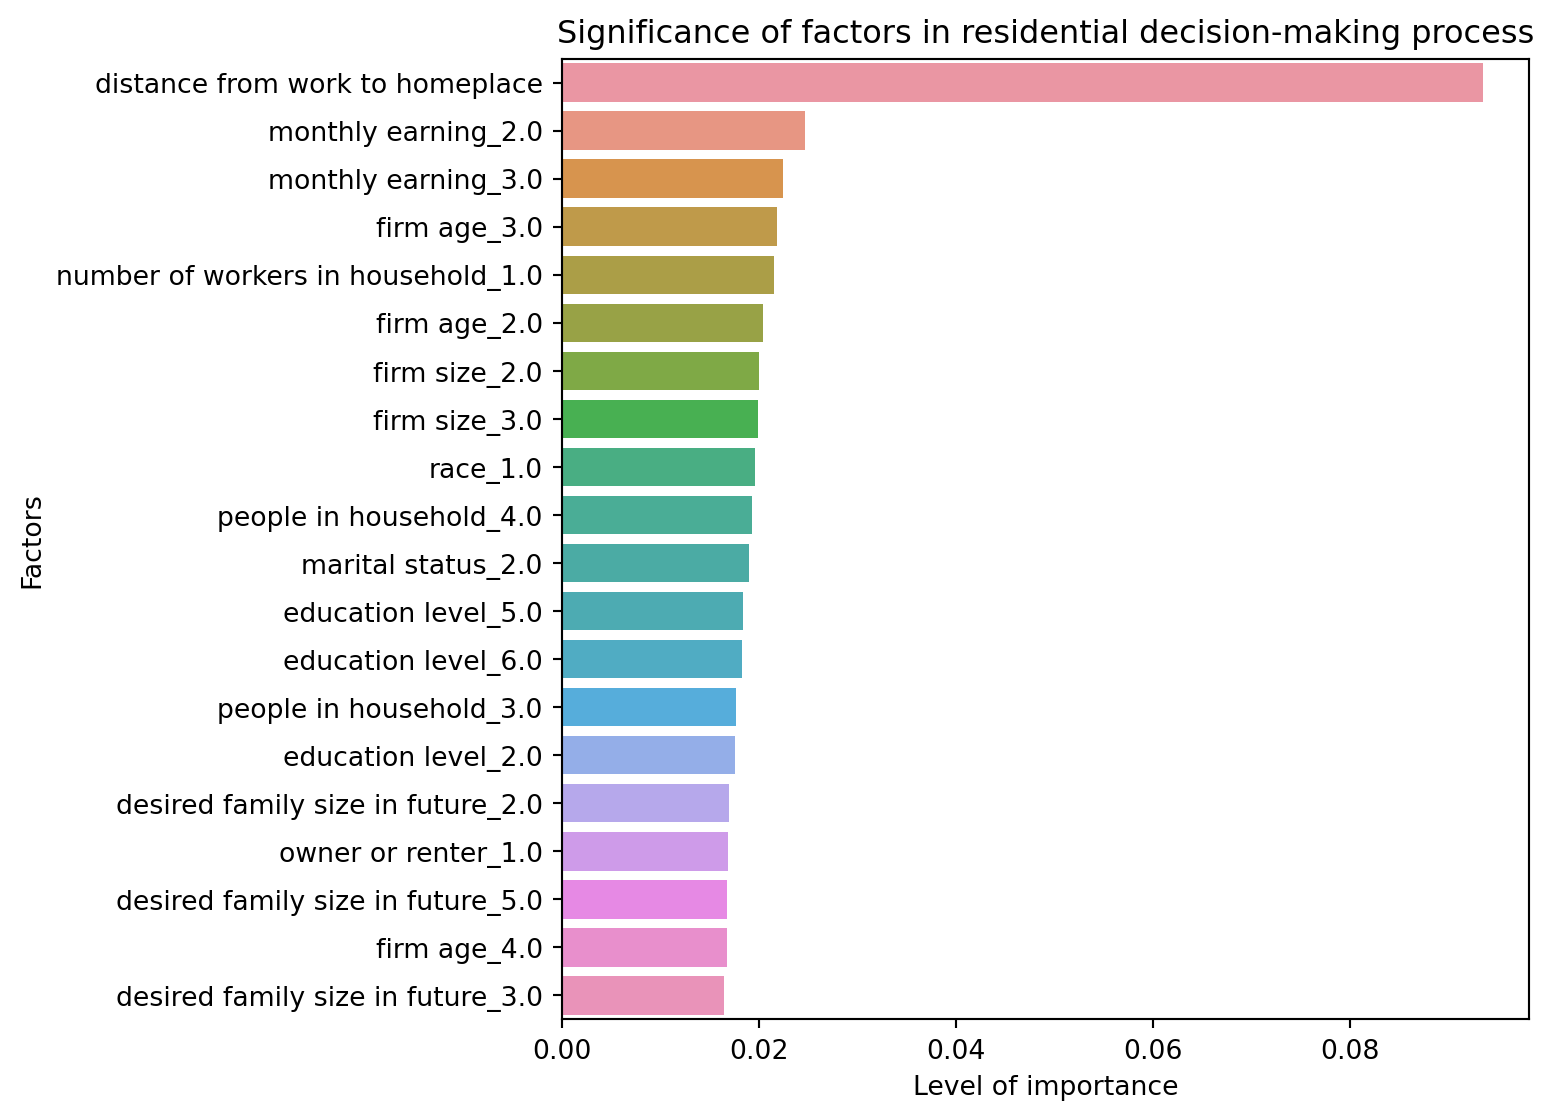
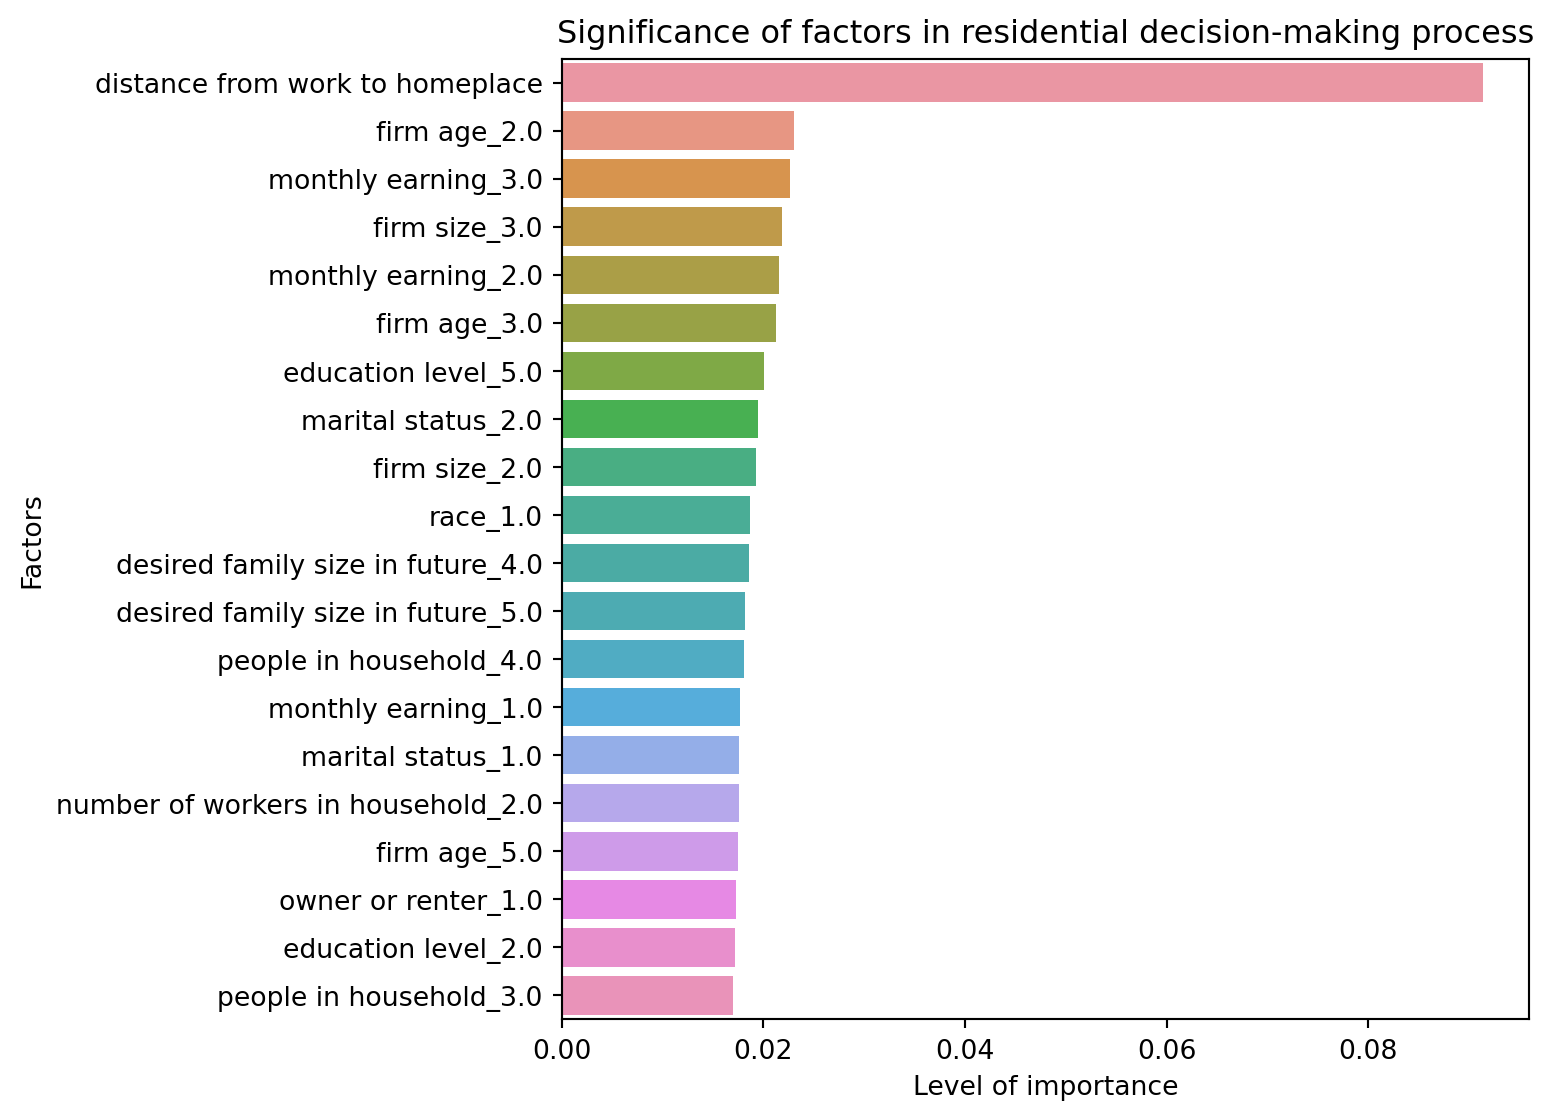
U2

diff --git a/docs/posts/Classification/index.html b/docs/posts/Classification/index.html
@@ -9,7 +9,7 @@
 <meta name="author" content="Heba Nusair">
 <meta name="dcterms.date" content="2023-11-06">
 
-<title>BLOGS: Analyzing Urban Transformation in the WFH Era Using Machine Learning - Classificcation</title>
+<title>BLOGS: Analyzing Urban Transformation in the WFH Era Using Machine Learning - Unveiling the Tapestry of Urban Preferences for Workers On Site (WOS): A Data-Driven Glimpse into Roanoke’s Metropolitan Living Choices</title>
 <style>
 code{white-space: pre-wrap;}
 span.smallcaps{font-variant: small-caps;}
@@ -98,10 +98,12 @@ pre > code.sourceCode > span > a:first-child::before { text-decoration: underlin
 
 
 <link rel="stylesheet" href="../../styles.css">
-<meta property="og:title" content="BLOGS: Analyzing Urban Transformation in the WFH Era Using Machine Learning - Classificcation">
+<meta property="og:title" content="BLOGS: Analyzing Urban Transformation in the WFH Era Using Machine Learning - Unveiling the Tapestry of Urban Preferences for Workers On Site (WOS): A Data-Driven Glimpse into Roanoke’s Metropolitan Living Choices">
+<meta property="og:description" content="Random Forest Classifier">
 <meta property="og:image" content="WhereToLiveForInPersonWorkers.JPG">
 <meta property="og:site-name" content="BLOGS: Analyzing Urban Transformation  in the WFH Era Using Machine Learning">
-<meta name="twitter:title" content="BLOGS: Analyzing Urban Transformation in the WFH Era Using Machine Learning - Classificcation">
+<meta name="twitter:title" content="BLOGS: Analyzing Urban Transformation in the WFH Era Using Machine Learning - Unveiling the Tapestry of Urban Preferences for Workers On Site (WOS): A Data-Driven Glimpse into Roanoke’s Metropolitan Living Choices">
+<meta name="twitter:description" content="Random Forest Classifier">
 <meta name="twitter:image" content="WhereToLiveForInPersonWorkers.JPG">
 <meta name="twitter:card" content="summary_large_image">
 </head>
@@ -157,7 +159,8 @@ pre > code.sourceCode > span > a:first-child::before { text-decoration: underlin
 <header id="title-block-header" class="quarto-title-block default page-columns page-full">
   <div class="quarto-title-banner page-columns page-full">
     <div class="quarto-title column-body">
-      <h1 class="title">Classificcation</h1>
+      <h1 class="title">Unveiling the Tapestry of Urban Preferences for Workers On Site (WOS): A Data-Driven Glimpse into Roanoke’s Metropolitan Living Choices</h1>
+            <p class="subtitle lead">Random Forest Classifier</p>
                                 <div class="quarto-categories">
                 <div class="quarto-category">news</div>
                 <div class="quarto-category">code</div>
@@ -191,13 +194,7 @@ pre > code.sourceCode > span > a:first-child::before { text-decoration: underlin
 <!-- sidebar -->
 <!-- margin-sidebar -->
     <div id="quarto-margin-sidebar" class="sidebar margin-sidebar">
-        <nav id="TOC" role="doc-toc" class="toc-active" data-toc-expanded="2">
-    <h2 id="toc-title">On this page</h2>
-   
-  <ul class="collapse">
-  <li><a href="#random-forest-classifier" id="toc-random-forest-classifier" class="nav-link active" data-scroll-target="#random-forest-classifier"><strong>Random Forest Classifier</strong></a></li>
-  </ul>
-</nav>
+        
     </div>
 <!-- main -->
 <main class="content quarto-banner-title-block" id="quarto-document-content">
@@ -205,11 +202,7 @@ pre > code.sourceCode > span > a:first-child::before { text-decoration: underlin
 
 
 
-<section id="random-forest-classifier" class="level1">
-<h1><strong>Random Forest Classifier</strong></h1>
-<section id="unveiling-the-tapestry-of-urban-preferences-for-workers-on-site-wos-a-data-driven-glimpse-into-roanokes-metropolitan-living-choices" class="level3">
-<h3 class="anchored" data-anchor-id="unveiling-the-tapestry-of-urban-preferences-for-workers-on-site-wos-a-data-driven-glimpse-into-roanokes-metropolitan-living-choices">Unveiling the Tapestry of Urban Preferences for Workers On Site (WOS): A Data-Driven Glimpse into Roanoke’s Metropolitan Living Choices</h3>
-<p>Deciding where to live is a big decision for anyone, and for the people of Roanoke, it’s no different. We all have our own checklist when it comes to choosing our neighborhoods – some of us want to be close to work, others are looking for good schools for the kids, and some might prioritize a big backyard over everything else.</p>
+<p>Deciding where to live for <strong>Workers on-Site (WOS)</strong> is a big decision for everyone, and for the people of Roanoke, it’s no different. We all have our own checklist when it comes to choosing our neighborhoods – some of us want to be close to work, others are looking for good schools for the kids, and some might prioritize a big backyard over everything else.</p>
 <div class="quarto-figure quarto-figure-center">
 <figure class="figure">
 <p><img src="WhereToLiveForInPersonWorkers.JPG" class="img-fluid figure-img"></p>
@@ -217,8 +210,8 @@ pre > code.sourceCode > span > a:first-child::before { text-decoration: underlin
 </figure>
 </div>
 <p>To get to the heart of what matters most to Roanoke’s residents, we turned to data. Using a detailed survey filled with personal insights from locals. the datasets featured in these blog posts have been&nbsp;<em><strong>modified and synthesized for educational purposes</strong>. They demonstrate various data analysis techniques.</em> We analyzed a range of factors from work life to family plans, all to answer one question: <strong><code>What drives people's choices about where they live</code></strong>?</p>
-<p>Armed with Python, a popular programming language, and a machine learning tool called <strong>Random Forest</strong>, we dug into the data. Think of Random Forest as a detective that examines all the evidence (or data) and identifies the usual suspects (or factors) that play a role in our living choices.</p>
-<p>The goal of using a Random Forest Classifier is to identify and quantify the factors that influence the residential preferences of <strong>Workers on-Site (WOS)</strong> in the Roanoke Metropolitan Area. Here are the specific objectives Random Forest helps to achieve:</p>
+<p>Armed with Python, a popular programming language, and a machine learning tool called <strong>Random Forest</strong>, we dug into the data. Think of Random Forest as a detective that examines all the evidence (or data) and identifies the usual suspects (or factors) that play a role in workers’ home-place choices.</p>
+<p>The goal of using a Random Forest Classifier is to identify the factors that influence the residential preferences of <strong>Workers on-Site (WOS)</strong> in the Roanoke Metropolitan Area. Here are the specific objectives Random Forest helps to achieve:</p>
 <ol type="1">
 <li><p><strong>Feature Importance:</strong> Random Forest can determine the relative importance of each factor (like distance to work, income level, family size) in predicting residential preferences. This insight can inform urban planning and real estate development.</p></li>
 <li><p><strong>Predictive Modeling:</strong> It can predict an individual's preferred living area based on the features in the dataset, which could be useful for personalized recommendations or targeted marketing for real estate.</p></li>
@@ -297,78 +290,78 @@ pre > code.sourceCode > span > a:first-child::before { text-decoration: underlin
 <span id="cb1-65"><a href="#cb1-65" aria-hidden="true" tabindex="-1"></a>    <span class="bu">print</span>(<span class="ss">f'</span><span class="sc">{</span>feature_names[i]<span class="sc">}</span><span class="ss">: </span><span class="sc">{</span>importances[i]<span class="sc">}</span><span class="ss">'</span>)</span></code><button title="Copy to Clipboard" class="code-copy-button"><i class="bi"></i></button></pre></div>
 <div class="cell-output cell-output-stdout">
 <pre><code>Feature Importances:
-distance from work to homeplace: 0.09345273131043372
-monthly earning_2.0: 0.024677292258372972
-monthly earning_3.0: 0.022493096150875046
-firm age_3.0: 0.021888450302182973
-number of workers in household_1.0: 0.021492161220722804
-firm age_2.0: 0.020436242640325075
-firm size_2.0: 0.020059716258558947
-firm size_3.0: 0.019907228636626202
-race_1.0: 0.019575629451391796
-people in household_4.0: 0.01926373363488931
-marital status_2.0: 0.01903626879958222
-education level_5.0: 0.018393013625840934
-education level_6.0: 0.018285413513748777
-people in household_3.0: 0.017728167734818657
-education level_2.0: 0.01762004653543532
-desired family size in future_2.0: 0.01693941932723661
-owner or renter_1.0: 0.016890161389622006
-desired family size in future_5.0: 0.016788655055072634
-firm age_4.0: 0.016746320119154893
-desired family size in future_3.0: 0.016494540186896212
-number of workers in household_2.0: 0.01648071440672263
-marital status_1.0: 0.01647393134084301
-monthly earning_1.0: 0.016447328749161435
-desired family size in future_4.0: 0.016288174201148822
-firm age_5.0: 0.01610041379165007
-owner or renter_2.0: 0.01588568457094935
-industry sector_Wholesale Trade: 0.015566317147060355
-people in household_5.0: 0.014650480657992397
-firm size_4.0: 0.014369595349057513
-industry sector_Manufacturing: 0.014331977262151631
-number of workers in household_3.0: 0.013855587208592278
-people in household_2.0: 0.013848039642048376
-firm size_1.0: 0.01344059163799746
-desired family size in future_1.0: 0.013426584199751986
-industry sector_Professional, Scientific, and Technical Services: 0.01281556602224366
-industry sector_Retail Trade: 0.01239001271284712
-education level_3.0: 0.012170380537394198
-race_3.0: 0.012136618658381448
-firm size_5.0: 0.012034436763723318
-industry sector_Management of Companies and Enterprises: 0.011727107140942751
-race_2.0: 0.010860955423211503
-education level_7.0: 0.01084682354294732
-industry sector_Mining, Quarrying, and Oil and Gas Extraction: 0.010650706632694908
-marital status_5.0: 0.010037644018900409
-race_8.0: 0.009950235532456244
-education level_8.0: 0.009732394342561164
-industry sector_Transportation and Warehousing: 0.009710762870216856
-industry sector_Information: 0.009583454940925733
-race_4.0: 0.009459502926191313
-monthly earning_4.0: 0.009397583590036573
-industry sector_Accommodation and Food Services: 0.009078669404785624
-marital status_6.0: 0.008939452529127674
-industry sector_Health Care and Social Assistance: 0.008798540487257244
-industry sector_Educational Services: 0.008771315906949934
-people in household_1.0: 0.00854476478350353
-firm age_1.0: 0.00831167466961105
-industry sector_Construction: 0.008309447549058824
-industry sector_Other Services [except Public Administration: 0.008112831644779295
-race_5.0: 0.007903387974819485
-race_6.0: 0.00786043603719188
-education level_4.0: 0.00785950665581931
-race_7.0: 0.007723078693205938
-industry sector_Finance and Insurance: 0.007547573067979564
-marital status_4.0: 0.007345521275073622
-education level_1.0: 0.006870531176575376
-marital status_3.0: 0.006822138624792511
-industry sector_Utilities: 0.00649279339748031
-industry sector_Agriculture, Forestry, Fishing and Hunting: 0.005463578137945157
-industry sector_Arts, Entertainment, and Recreation: 0.005082061203072899
-industry sector_Real Estate and Rental and Leasing: 0.00490634795030934
-industry sector_Public Administration: 0.0033035794494865574
-industry sector_Administrative and Support and Waste Management and Remediation Services: 0.003114875408585927</code></pre>
+distance from work to homeplace: 0.09134795673483298
+firm age_2.0: 0.023074392773643537
+monthly earning_3.0: 0.022657266477498737
+firm size_3.0: 0.021816278981314906
+monthly earning_2.0: 0.021510926182989727
+firm age_3.0: 0.021301928677251242
+education level_5.0: 0.020022919144890402
+marital status_2.0: 0.019428734336654454
+firm size_2.0: 0.019273227310841686
+race_1.0: 0.018699910742666706
+desired family size in future_4.0: 0.018589710218681242
+desired family size in future_5.0: 0.018142961694865054
+people in household_4.0: 0.01812797122124121
+monthly earning_1.0: 0.01766899201830778
+marital status_1.0: 0.017635635165213458
+number of workers in household_2.0: 0.017567901276625532
+firm age_5.0: 0.01748398298968119
+owner or renter_1.0: 0.017257964075481528
+education level_2.0: 0.017186282362531002
+people in household_3.0: 0.016999129508408883
+desired family size in future_3.0: 0.01667652948550059
+owner or renter_2.0: 0.01636343185271881
+number of workers in household_1.0: 0.016286507984617303
+education level_6.0: 0.01620637647074858
+people in household_5.0: 0.016203426171454885
+firm age_4.0: 0.015513115731732214
+number of workers in household_3.0: 0.015511300205766807
+desired family size in future_2.0: 0.015509759660037703
+people in household_2.0: 0.015384846544195325
+firm size_4.0: 0.014233100449458384
+firm size_5.0: 0.014189064990071729
+industry sector_Manufacturing: 0.0137793627149077
+industry sector_Retail Trade: 0.013614824190975115
+industry sector_Professional, Scientific, and Technical Services: 0.013267836369281026
+race_3.0: 0.013198104433614903
+firm size_1.0: 0.013007949805598724
+race_2.0: 0.01191079035429249
+education level_3.0: 0.011607328303381088
+industry sector_Wholesale Trade: 0.011528677967384384
+industry sector_Mining, Quarrying, and Oil and Gas Extraction: 0.011521472695800894
+industry sector_Management of Companies and Enterprises: 0.011202885541442694
+desired family size in future_1.0: 0.011186283476924203
+people in household_1.0: 0.011177302362409061
+education level_8.0: 0.011089014899877148
+education level_7.0: 0.01064710579155858
+industry sector_Information: 0.010359948439815019
+monthly earning_4.0: 0.010014692004066586
+industry sector_Transportation and Warehousing: 0.009713266923097532
+industry sector_Accommodation and Food Services: 0.009489321769968936
+race_4.0: 0.009346515037799052
+industry sector_Educational Services: 0.00920091598650286
+marital status_6.0: 0.008715043181356266
+firm age_1.0: 0.008565579703557697
+race_8.0: 0.008202521641702609
+industry sector_Construction: 0.008124913416637495
+marital status_3.0: 0.00811658517575098
+race_5.0: 0.007995148611244963
+industry sector_Health Care and Social Assistance: 0.00795471331008399
+education level_4.0: 0.007898301686822177
+marital status_4.0: 0.007558778454614109
+industry sector_Utilities: 0.0074220428626320546
+race_7.0: 0.007342039476859269
+industry sector_Finance and Insurance: 0.007331781306270937
+marital status_5.0: 0.0072312623243070894
+race_6.0: 0.006726236601333669
+industry sector_Other Services [except Public Administration: 0.006580015889284231
+education level_1.0: 0.006091515607980446
+industry sector_Agriculture, Forestry, Fishing and Hunting: 0.005941900017715658
+industry sector_Arts, Entertainment, and Recreation: 0.005920521088600963
+industry sector_Administrative and Support and Waste Management and Remediation Services: 0.004635273594982407
+industry sector_Real Estate and Rental and Leasing: 0.0035081125272754645
+industry sector_Public Administration: 0.0034025830123659657</code></pre>
 </div>
 </div>
 <ul>
@@ -425,8 +418,6 @@ The results were clear: For workers who commute to work; the distance from workp
 <p>As we continue to shape Roanoke’s urban landscape, let’s keep these visual cues in mind, ensuring that every development, from high-rises to townhomes, aligns with the genuine preferences of those who will call them home. After all, understanding these preferences is the key to building not just houses but homes where life’s stories can unfold.</p>
 
 
-</section>
-</section>
 
 </main> <!-- /main -->
 <script id="quarto-html-after-body" type="application/javascript">

diff --git a/docs/Research Insights Explorer Using Machine learning.html b/docs/Research Insights Explorer Using Machine learning.html
@@ -338,7 +338,7 @@ Nov 6, 2023
 </div>
 </a>
 </div>
-<div class="g-col-1" data-index="3" data-categories="news,code,analysis" data-listing-date-sort="1699246800000" data-listing-file-modified-sort="1700971715176" data-listing-date-modified-sort="NaN" data-listing-reading-time-sort="9">
+<div class="g-col-1" data-index="3" data-categories="news,code,analysis" data-listing-date-sort="1699246800000" data-listing-file-modified-sort="1700972473462" data-listing-date-modified-sort="NaN" data-listing-reading-time-sort="9">
 <a href="./posts/Classification/index.html" class="quarto-grid-link">
 <div class="quarto-grid-item card h-100 card-left">
 <p class="card-img-top">
@@ -346,7 +346,7 @@ Nov 6, 2023
 </p>
 <div class="card-body post-contents">
 <h5 class="no-anchor card-title listing-title">
-Classificcation
+Unveiling the Tapestry of Urban Preferences for Workers On Site (WOS): A Data-Driven Glimpse into Roanoke’s Metropolitan Living Choices
 </h5>
 <div class="listing-categories">
 <div class="listing-category" onclick="window.quartoListingCategory('news'); return false;">
@@ -360,7 +360,7 @@ analysis
 </div>
 </div>
 <div class="card-text listing-description">
-Deciding where to live is a big decision for anyone, and for the people of Roanoke, it’s no different. We all have our own checklist when it comes to…
+Deciding where to live for <strong>Workers on-Site (WOS)</strong> is a big decision for everyone, and for the people of Roanoke, it’s no different. We all have our own checklist when it comes to choosing our neighborhoods – some of us…
 </div>
 <div class="card-attribution card-text-small justify">
 <div class="listing-author">

diff --git a/docs/index.html b/docs/index.html
@@ -363,17 +363,17 @@ Heba Nusair
 </a>
 </div>
 </div>
-<div class="quarto-post image-right" data-index="3" data-categories="news,code,analysis" data-listing-date-sort="1699246800000" data-listing-file-modified-sort="1700971715176" data-listing-date-modified-sort="NaN" data-listing-reading-time-sort="9">
+<div class="quarto-post image-right" data-index="3" data-categories="news,code,analysis" data-listing-date-sort="1699246800000" data-listing-file-modified-sort="1700972473462" data-listing-date-modified-sort="NaN" data-listing-reading-time-sort="9">
 <div class="thumbnail">
 <p><a href="./posts/Classification/index.html"> <img src="./posts/Classification/WhereToLiveForInPersonWorkers.JPG" class="thumbnail-image"> </a></p>
 </div>
 <div class="body">
 <a href="./posts/Classification/index.html">
 <h3 class="no-anchor listing-title">
-Classificcation
+Unveiling the Tapestry of Urban Preferences for Workers On Site (WOS): A Data-Driven Glimpse into Roanoke’s Metropolitan Living Choices
 </h3>
 <div class="listing-subtitle">
-
+Random Forest Classifier
 </div>
 </a>
 <div class="listing-categories">
@@ -389,7 +389,7 @@ analysis
 </div>
 <a href="./posts/Classification/index.html">
 <div class="listing-description">
-Deciding where to live is a big decision for anyone, and for the people of Roanoke, it’s no different. We all have our own checklist when it comes to…
+Deciding where to live for <strong>Workers on-Site (WOS)</strong> is a big decision for everyone, and for the people of Roanoke, it’s no different. We all have our own checklist when it comes to choosing our neighborhoods – some of us…
 </div>
 </a>
 </div>
